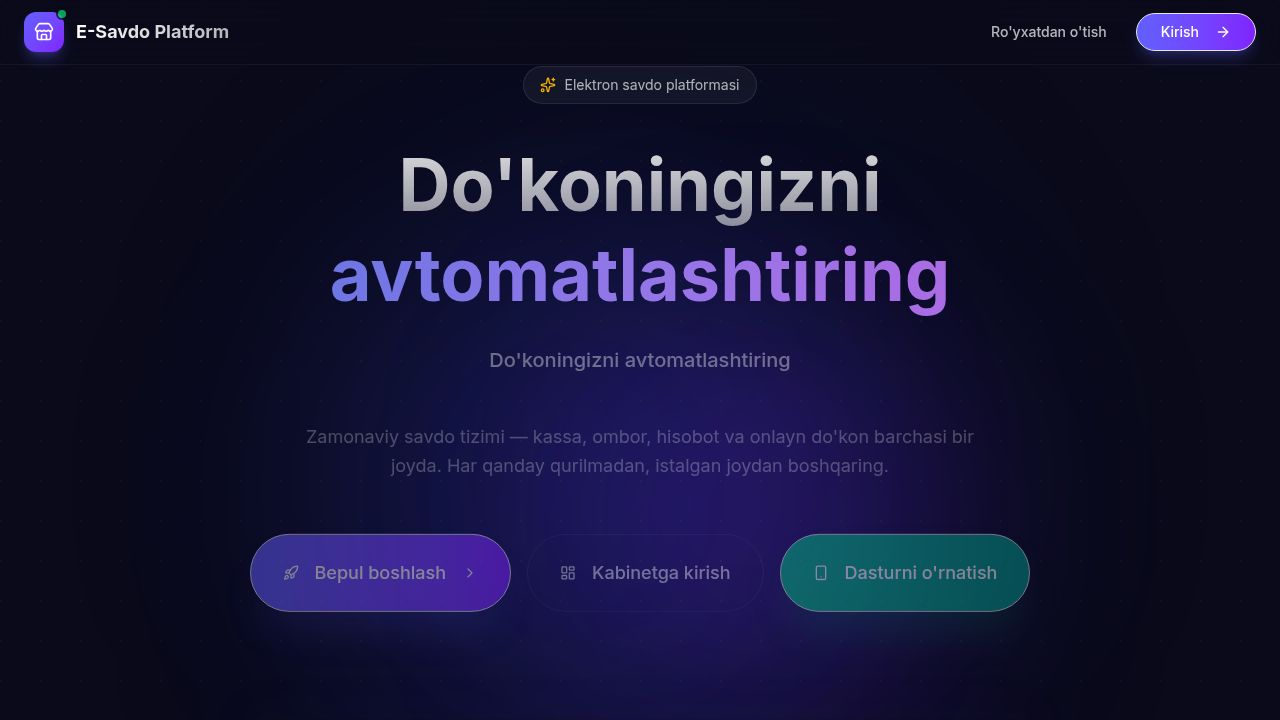
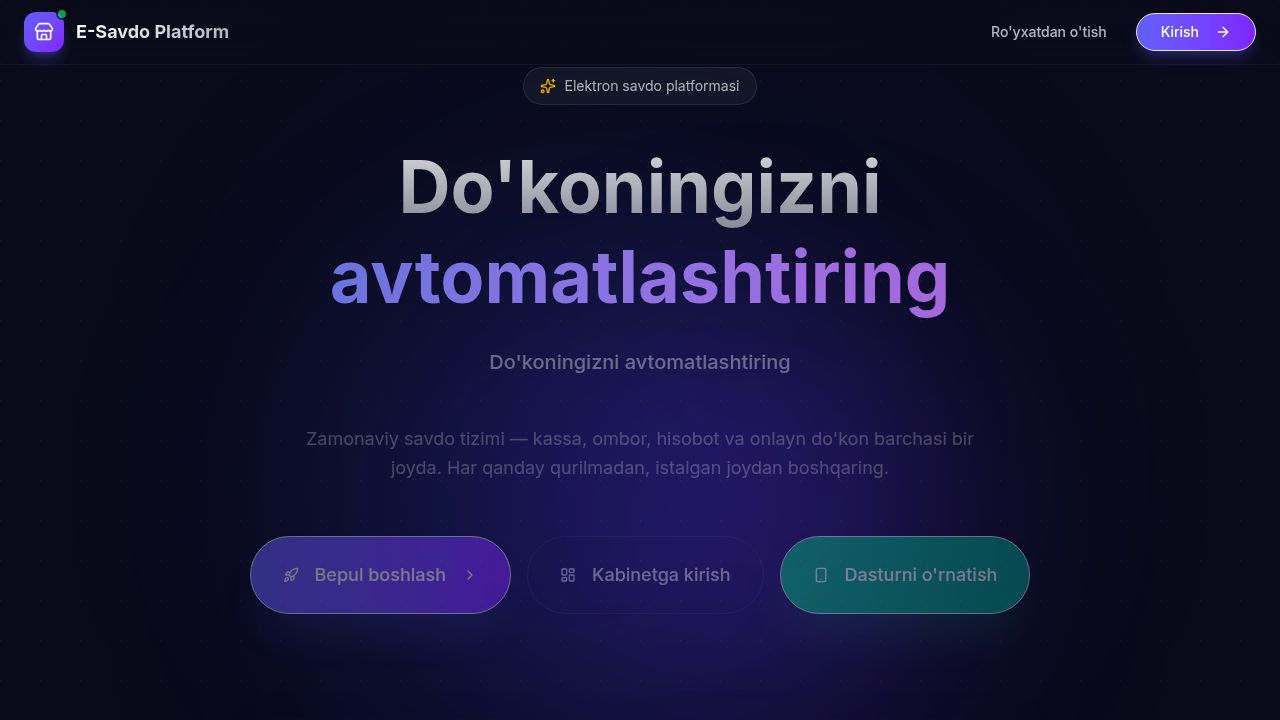
Disable public user registration and update landing page
Disables the public `/api/auth/register` endpoint, redirects `/register` to `/login`, removes "New Shop" CTA from landing and login pages, and updates tenant deletion logic to cascade delete all 17 tenant-related tables.

Replit-Commit-Author: Agent
Replit-Commit-Session-Id: 50931296-ac4f-48e0-b373-39cb8b17eb37
Replit-Commit-Checkpoint-Type: full_checkpoint
Replit-Commit-Event-Id: 4b8e69ea-8b9a-416f-bd0c-11f26f3f7157
Replit-Commit-Screenshot-Url: https://storage.googleapis.com/screenshot-production-us-central1/d23b876a-67c8-40e0-bb8b-0c8db8d60217/50931296-ac4f-48e0-b373-39cb8b17eb37/cxwKd6u
Replit-Helium-Checkpoint-Created: true

diff --git a/client/src/pages/landing.tsx b/client/src/pages/landing.tsx
@@ -93,14 +93,7 @@ export default function LandingPage() {
             </span>
           </div>
           <div className="flex items-center gap-3">
-            <Button
-              variant="ghost"
-              className="text-white/70 hover:text-white hover:bg-white/10 hidden sm:flex"
-              onClick={() => setLocation("/register")}
-              data-testid="button-register-nav"
-            >
-              Ro'yxatdan o'tish
-            </Button>
+            {/* Public self-registration is disabled. Only Kirish remains. */}
             <Button
               className="bg-gradient-to-r from-indigo-500 to-violet-600 hover:from-indigo-600 hover:to-violet-700 text-white rounded-full px-6 shadow-lg shadow-indigo-500/25"
               onClick={() => setLocation("/login")}
@@ -188,25 +181,17 @@ export default function LandingPage() {
             transition={{ duration: 0.8, delay: 0.4 }}
             className="flex flex-col sm:flex-row items-center justify-center gap-4"
           >
+            {/* Public self-registration is disabled. Only the login CTA remains;
+                new tenants are created by the platform admin. */}
             <Button
               size="lg"
               className="bg-gradient-to-r from-indigo-500 to-violet-600 hover:from-indigo-600 hover:to-violet-700 text-white rounded-full px-8 py-6 text-lg shadow-2xl shadow-indigo-500/30 group w-full sm:w-auto"
-              onClick={() => setLocation("/register")}
-              data-testid="button-hero-register"
-            >
-              <Rocket className="mr-2 h-5 w-5 group-hover:animate-bounce" />
-              Bepul boshlash
-              <ChevronRight className="ml-2 h-5 w-5 group-hover:translate-x-1 transition-transform" />
-            </Button>
-            <Button
-              size="lg"
-              variant="outline"
-              className="border-white/10 text-white/80 hover:bg-white/5 hover:text-white rounded-full px-8 py-6 text-lg backdrop-blur-sm w-full sm:w-auto"
               onClick={() => setLocation("/login")}
               data-testid="button-hero-login"
             >
               <LayoutDashboard className="mr-2 h-5 w-5" />
               Kabinetga kirish
+              <ChevronRight className="ml-2 h-5 w-5 group-hover:translate-x-1 transition-transform" />
             </Button>
             {!isInstalled && (
               <Button
@@ -456,26 +441,18 @@ export default function LandingPage() {
               Hoziroq boshlang!
             </h2>
             <p className="text-white/40 mb-8 text-lg">
-              Do'koningizni zamonaviy tizim bilan boshqaring. 14 kun bepul sinov davri.
+              Do'koningizni zamonaviy tizim bilan boshqaring. Yangi do'kon ochish uchun administrator bilan bog'laning.
             </p>
             <div className="flex flex-col sm:flex-row items-center justify-center gap-4">
+              {/* Public self-registration is disabled. */}
               <Button
                 size="lg"
                 className="bg-gradient-to-r from-indigo-500 to-violet-600 hover:from-indigo-600 hover:to-violet-700 text-white rounded-full px-10 py-6 text-lg shadow-2xl shadow-indigo-500/30 group w-full sm:w-auto"
-                onClick={() => setLocation("/register")}
-                data-testid="button-cta-register"
-              >
-                Bepul ro'yxatdan o'tish
-                <ArrowRight className="ml-2 h-5 w-5 group-hover:translate-x-1 transition-transform" />
-              </Button>
-              <Button
-                size="lg"
-                variant="outline"
-                className="border-white/10 text-white/70 hover:bg-white/5 hover:text-white rounded-full px-10 py-6 text-lg w-full sm:w-auto"
                 onClick={() => setLocation("/login")}
                 data-testid="button-cta-login"
               >
                 Kabinetga kirish
+                <ArrowRight className="ml-2 h-5 w-5 group-hover:translate-x-1 transition-transform" />
               </Button>
             </div>
           </motion.div>

diff --git a/server/routes.ts b/server/routes.ts
@@ -20,59 +20,14 @@ export async function registerRoutes(
 
   // ============ AUTH ROUTES ============
 
-  app.post("/api/auth/register", async (req, res) => {
-    try {
-      const data = registerTenantSchema.parse(req.body);
-
-      const existingTenant = await storage.getTenantBySlug(data.slug);
-      if (existingTenant) {
-        return res.status(400).json({ error: "Bu slug allaqachon band" });
-      }
-
-      const trialEnd = new Date();
-      trialEnd.setDate(trialEnd.getDate() + 14);
-
-      const tenant = await storage.createTenant({
-        slug: data.slug,
-        name: data.storeName,
-        plan: "trial",
-        status: "active",
-        trialEnd,
-        maxProducts: 100,
-        maxUsers: 1,
-        ownerUsername: data.username,
-        ownerPassword: data.password,
-      });
-
-      const hashedPassword = await hashPassword(data.password);
-      const user = await storage.createUser({
-        username: data.username,
-        email: data.email || null,
-        password: hashedPassword,
-        role: "owner",
-        tenantId: tenant.id,
-        isSuper: false,
-      });
-
-      const token = generateToken({
-        userId: user.id,
-        tenantId: tenant.id,
-        role: "owner",
-        isSuper: false,
-      });
-
-      res.status(201).json({
-        token,
-        user: { id: user.id, username: user.username, role: user.role },
-        tenant: { id: tenant.id, slug: tenant.slug, name: tenant.name },
-      });
-    } catch (error: any) {
-      console.error("Register error:", error);
-      if (error?.name === 'ZodError') {
-        return res.status(400).json({ error: "Ma'lumotlar to'liq emas", details: error.errors });
-      }
-      res.status(500).json({ error: "Ro'yxatdan o'tishda xatolik" });
-    }
+  // Public self-registration is DISABLED. Only super admin can create new
+  // tenants (via the super admin panel → POST /api/admin/tenants). This
+  // endpoint is kept for backward-compat with any cached frontends and
+  // returns a clear error message in Uzbek.
+  app.post("/api/auth/register", async (_req, res) => {
+    return res.status(403).json({
+      error: "Yangi do'kon ochish o'chirilgan. Iltimos, administratorga murojaat qiling.",
+    });
   });
 
   app.post("/api/auth/login", async (req, res) => {

diff --git a/server/storage.ts b/server/storage.ts
@@ -182,8 +182,24 @@ export class DatabaseStorage implements IStorage {
 
   async deleteTenant(id: string): Promise<boolean> {
     return await db.transaction(async (tx) => {
+      // Delete all tenant-scoped data so FK constraints don't block tenant
+      // deletion. Order matters: child rows (those whose own tables also
+      // reference other tenant tables, e.g. expenses → expenseCategories,
+      // attendance → staffMembers) are deleted before their parents.
+      await tx.delete(attendanceRecords).where(eq(attendanceRecords.tenantId, id));
+      await tx.delete(staffMembers).where(eq(staffMembers.tenantId, id));
+      await tx.delete(shiftHandovers).where(eq(shiftHandovers.tenantId, id));
+      await tx.delete(auditLogs).where(eq(auditLogs.tenantId, id));
+      await tx.delete(cashRegisterEntries).where(eq(cashRegisterEntries.tenantId, id));
+      await tx.delete(debtPayments).where(eq(debtPayments.tenantId, id));
+      await tx.delete(deliveries).where(eq(deliveries.tenantId, id));
       await tx.delete(transactions).where(eq(transactions.tenantId, id));
       await tx.delete(orders).where(eq(orders.tenantId, id));
+      await tx.delete(expenses).where(eq(expenses.tenantId, id));
+      await tx.delete(expenseCategories).where(eq(expenseCategories.tenantId, id));
+      await tx.delete(incomeCategories).where(eq(incomeCategories.tenantId, id));
+      await tx.delete(customers).where(eq(customers.tenantId, id));
+      await tx.delete(suppliers).where(eq(suppliers.tenantId, id));
       await tx.delete(products).where(eq(products.tenantId, id));
       await tx.delete(categories).where(eq(categories.tenantId, id));
       await tx.delete(users).where(eq(users.tenantId, id));

diff --git a/client/src/App.tsx b/client/src/App.tsx
@@ -20,7 +20,7 @@ const importCustomers = () => import("@/pages/customers");
 const importStoreHome = () => import("@/pages/store/home");
 const importCart = () => import("@/pages/store/cart");
 const importLogin = () => import("@/pages/auth/login");
-const importRegister = () => import("@/pages/auth/register");
+// importRegister removed: public self-registration is disabled.
 const importSettings = () => import("@/pages/settings");
 const importCategories = () => import("@/pages/categories");
 const importNotFound = () => import("@/pages/not-found");
@@ -49,7 +49,6 @@ const CustomersPage = lazy(importCustomers);
 const StoreHome = lazy(importStoreHome);
 const CartPage = lazy(importCart);
 const LoginPage = lazy(importLogin);
-const RegisterPage = lazy(importRegister);
 const SettingsPage = lazy(importSettings);
 const CategoriesPage = lazy(importCategories);
 const FinancePage = lazy(importFinance);
@@ -283,7 +282,11 @@ function Router() {
       <Route path="/attendance/:token" component={AttendanceCheckPage} />
       <Route path="/courier/:token" component={CourierDeliveriesPage} />
       <Route path="/login" component={LoginPage} />
-      <Route path="/register" component={RegisterPage} />
+      {/* Public self-registration is disabled. Redirect any old /register
+          links to the login page so users contact the admin instead. */}
+      <Route path="/register">
+        <Redirect to="/login" />
+      </Route>
       
       {/* Slug-scoped Admin Routes (must be before /store/:slug to avoid matching) */}
       <Route path="/store/:slug/admin/inventory">

diff --git a/client/src/pages/auth/login.tsx b/client/src/pages/auth/login.tsx
@@ -3,7 +3,7 @@ import { useAuth } from "@/lib/auth-context";
 import { Button } from "@/components/ui/button";
 import { Input } from "@/components/ui/input";
 import { Label } from "@/components/ui/label";
-import { Lock, Store, ArrowLeft, Eye, EyeOff, Loader2 } from "lucide-react";
+import { Lock, ArrowLeft, Eye, EyeOff, Loader2 } from "lucide-react";
 import { useLocation } from "wouter";
 import { motion } from "framer-motion";
 
@@ -173,17 +173,8 @@ export default function LoginPage() {
               </Button>
             </form>
 
-            <div className="mt-6 pt-6 border-t border-white/5 flex flex-col gap-3">
-              <Button
-                variant="outline"
-                onClick={() => setLocation("/register")}
-                className="w-full border-white/10 text-white/70 hover:bg-white/5 hover:text-white rounded-xl h-11"
-                data-testid="link-register"
-              >
-                <Store className="h-4 w-4 mr-2" />
-                Yangi do'kon ochish
-              </Button>
-            </div>
+            {/* Public self-registration is disabled. Only super admin can
+                create new tenants from the super admin panel. */}
           </div>
         </div>
       </motion.div>

diff --git a/replit.md b/replit.md
@@ -9,79 +9,35 @@ Preferred communication style: Simple, everyday language (Uzbek).
 ## System Architecture
 
 ### Multi-Tenant Design
-The platform employs a shared database architecture where each tenant's data is isolated using a `tenant_id` column on all tables. Tenant resolution is handled via an `x-tenant-slug` header or JWT token, with an in-memory tenant cache for performance. Various subscription plans are available, including a free trial and tiered paid plans.
+The platform employs a shared database architecture where each tenant's data is isolated using a `tenant_id` column on all tables. Tenant resolution is handled via an `x-tenant-slug` header or JWT token. Various subscription plans are available, including a free trial and tiered paid plans.
 
 ### Authentication
-Authentication relies on JWT tokens with a 30-day expiration, secured using bcrypt for password hashing (10 salt rounds). Middleware manages access control, distinguishing between required authentication, optional authentication for public routes, and super admin access.
+Authentication relies on JWT tokens with bcrypt for password hashing. Middleware manages access control. Public self-registration is disabled; only the super admin can create new tenants. Tenant deletion by super admin is protected for the `default-tenant`.
 
 ### Frontend Architecture
-The frontend is built with React 18 and TypeScript, utilizing Wouter for routing and React Context API for state management. Server-side data fetching is managed by TanStack Query. UI components are developed using `shadcn/ui` (built on Radix UI) and styled with Tailwind CSS v4. Vite is used as the build tool. The system supports offline functionality via IndexedDB and Dexie.js.
+The frontend is built with React 18, TypeScript, Wouter for routing, and React Context API for state management. Server-side data fetching is managed by TanStack Query. UI components use `shadcn/ui` (built on Radix UI) and Tailwind CSS v4. Vite is used as the build tool. Offline functionality is supported via IndexedDB and Dexie.js. Preloading mechanisms are implemented for improved navigation performance.
 
 ### Backend Architecture
-The backend is powered by Express.js and TypeScript, using Drizzle ORM with PostgreSQL for database interactions. It exposes RESTful API endpoints, with rate limiting and gzip compression for efficiency. Key backend components include route definitions with authentication and tenant context, a tenant-scoped database access layer, JWT authentication middleware, tenant resolution, and a per-tenant Telegram notification system (fire-and-forget via `setImmediate`).
-
-### Performance Optimizations
-- DB indexes: 21+ tenant_id indexes on hot tables (products, transactions, orders, categories, suppliers, customers, users, expenses, staff_members) plus composites (tenant_id, date DESC), (tenant_id, status), (tenant_id, stock).
-- Connection pool: pg pool max=20, min=2, idleTimeout=30s, statement_timeout=30s, keepAlive enabled.
-- N+1 elimination: `getAllTenantsWithStats` uses 3 GROUP BY queries instead of 3*N. `voidTransaction` uses single `IN` query + parallel updates. `/api/stores` uses `getProductCountsByTenants` (single GROUP BY).
-- Reorder batching: `reorderProducts` and `reorderCategories` use single CASE WHEN UPDATE instead of N updates.
-- Telegram notifications: deferred via `setImmediate` so order POST responds immediately.
-- Log middleware: response body logging only in dev, truncated to 500 chars.
-- Frontend refetch: courier-deliveries and employees use `refetchOnWindowFocus + staleTime` instead of 30s polling.
-
-### Mobile UX Fixes
-- Image upload (`useUpload` hook): 6s timeout on canvas compression (kept short so iOS Safari never feels frozen), 15s on presigned URL request, 60s on R2 PUT — never hangs on "Yuklanmoqda…". HEIC/HEIF files bypass canvas (iOS camera). Object URLs revoked.
-- Receipt dialog: `max-h-[90vh] flex flex-col` with inner `overflow-y-auto` body and sticky `shrink-0` footer so "Chop etish" button always remains visible/tappable. Manual "Chop etish" click also auto-closes the dialog after ~600ms so the user never has to tap "Yopish" separately.
-
-### Navigation Performance
-- `preloadAdminPages()` in `App.tsx` runs once via `setTimeout(100ms)` after auth (was: `requestIdleCallback`, which often never fired on busy POS terminals). Module-level `adminPagesPreloaded` flag makes it idempotent across StrictMode / multiple `ProtectedRoute` mounts. Preloads ALL 8 admin chunks in parallel: `dashboard`, `inventory`, `history`, `customers`, `settings`, `categories`, `finance`, `employees`. After this fires, `lazy()` resolves synchronously → sidebar route switches show no Suspense fallback at all.
-- **Why eager preload matters**: Each admin page renders its OWN `SidebarNav` inside its layout. Before this fix, every sidebar click unmounted the entire current page (including sidebar) → tiny Suspense fallback shown → entire screen looked blank/white until next chunk downloaded (seconds on slow desktop network).
-- `PageLoader` upgraded from a small `h-32` spinner to a full-viewport `min-h-screen` loader with "Yuklanmoqda..." text, so the first navigation (or a slow chunk fetch) shows an obviously-working loading state instead of a blank white screen.
-- Each preload import is `.catch(() => {})` to suppress unhandled-rejection noise on transient network failures; React Suspense will retry on actual demand.
-- `inventory.tsx` filtering (`searchFiltered`, `filteredProducts`, `tabCounts`) wrapped in `useMemo` with single-pass tab counter — eliminates 4 full array scans per render on the inventory page.
-
-### Large-Tenant Performance (e.g. "Kitoblar")
-For tenants with thousands of products, the following changes prevent UI freezes:
-- **Product query no longer refetches on every page mount**: `product-context.tsx` sets `refetchOnMount: false`, `staleTime: 5min`, `gcTime: 30min`. Mutations still invalidate the cache, so freshness is preserved when the user adds/edits/deletes a product. Was the #1 source of lag — every navigation between Dashboard ↔ Ombor ↔ Tarix re-downloaded the entire product list (megabytes for Kitoblar) and re-decoded every image.
-- **`ProductCard` is `React.memo`'d** with custom equality (product ref + onClick + size). Without this, ANY state change on the dashboard (cart update, search keystroke, mobile cart toggle) re-rendered every product card.
-- **`addToCart` is `useCallback`'d** so its identity is stable across renders, allowing `ProductCard.memo` to actually skip re-renders.
-- **Dashboard's `filteredProducts` is `useMemo`'d** with the search query lowercased once outside the filter loop. Returns the original `products` reference unchanged when no filters are active (keeps memo equality stable downstream).
-- **`<img>` elements have explicit `width`/`height` + `decoding="async"`** to prevent layout thrash and unblock the main thread during image decoding. `loading="lazy"` was already present.
-
-### Sidebar (Desktop)
-- `SidebarNav` (desktop) supports two widths: compact `w-20` (icons + tiny text-[10px] labels) and expanded `w-52` (icons + horizontal text-sm labels). Toggle button (ChevronsLeft/Right) lives in the sidebar header. Preference persisted to localStorage key `esavdo-sidebar-expanded`. **Default = expanded** so labels like "Kassa", "Ombor" are clearly readable.
-- All admin page main containers use `flex-1 min-w-0` after `<SidebarNav />` to prevent horizontal overflow when sidebar widens (verified in customers, settings, categories, employees, history, dashboard, inventory, finance).
-- Mobile bottom nav unchanged (untouched).
-
-### Settings
-- `settings.autoPrint` defaults to `true` for new installs. A one-time migration (`pos_settings_autoprint_migrated_v1` localStorage key) force-enables it once for existing installs that explicitly had `autoPrint: false`. Future user toggles are respected.
-
-### Print System
-- **Receipt printing**: uses `window.open()` popup with self-contained HTML (`buildReceiptHtml` in `client/src/lib/receipt-html.ts`) — same proven pattern as `barcode-print.tsx`. The popup's `<head>` includes `@page { size: 80mm auto; margin: 0 }` and `html/body { width: 80mm }`. The popup's own inline script uses `requestAnimationFrame` to print as soon as images are ready, with a hard cap of 800ms (down from 3000ms) so a slow external QR API never delays printing. After print, popup auto-closes after 300ms. Logo and Telegram QR are preloaded on dashboard mount (in `dashboard.tsx`'s preload `useEffect`) so they're already in browser cache when the popup opens.
-- **Why popup vs. in-page CSS**: thermal printer drivers (XP-365B) ignored named `@page` rules in the main app's stylesheet, so the receipt rendered at A4 width → 700+ pages. An isolated popup document gets a fresh print context where `@page` is honored.
-- **Auto-print fast path** (when `settings.autoPrint` is enabled): the dashboard handles auto-print directly — it does NOT open the on-screen `ReceiptDialog`. Flow: (1) inside `handleCheckout`, BEFORE any `await`, `window.open()` is called synchronously to keep the user-gesture context alive (popup blocker bypass) and the popup is filled with placeholder "Chek tayyorlanmoqda…" HTML; window ref stored in `preOpenedPrintWindowRef`. (2) After transaction succeeds, `buildReceiptHtml({transaction, settings, tenantSettings})` from `client/src/lib/receipt-html.ts` builds the HTML and `document.write()`s it into the same popup. (3) Popup's inline script waits for images then calls `window.print()` and `window.close()`. (4) On checkout error or popup write failure, popup is closed and dialog opens as fallback. (5) `ReceiptDialog` is no longer involved in auto-print — only used for manual print mode (when `autoPrint` is off).
-- **Receipt HTML builder** lives in `client/src/lib/receipt-html.ts` (extracted from `receipt-dialog.tsx`) — a pure function consumed by both the dashboard auto-print path and `ReceiptDialog`'s manual print button.
-- **XSS protection**: `escapeHtml()` helper escapes all user-supplied content (product/customer names, store info, footer text, payment labels, IDs, dates).
-- **Finance reports & other print flows**: use plain `window.print()`. Only `.no-print` CSS class remains in `index.css` to hide toolbar buttons during print. Receipt printing no longer affects this stylesheet at all.
-
-### Data Storage
-PostgreSQL serves as the primary database, with Drizzle ORM managing schema and queries. Tenant isolation is enforced by filtering all queries by `tenant_id`. The database schema, defined in `/shared/schema.ts`, includes tables for tenants, users, products, orders, categories, transactions, income/expense categories, and shift handovers. Barcodes maintain uniqueness across each tenant.
+The backend is powered by Express.js and TypeScript, using Drizzle ORM with PostgreSQL. It exposes RESTful API endpoints with rate limiting and gzip compression. Key components include route definitions, a tenant-scoped database access layer, JWT authentication middleware, tenant resolution, and a per-tenant Telegram notification system.
 
 ### Key Features
 - **Barcode Scanning & OCR**: Integrated `@zxing/library` for barcode detection and Tesseract.js for OCR.
 - **PWA & Electron Support**: Progressive Web App capabilities and an Electron wrapper for desktop applications.
 - **Image Storage**: Utilizes Cloudflare R2 for image storage with presigned URL uploads.
-- **Financial Management**: Includes profit tracking, configurable payment methods, expense and income management with categories, and a professional finance module featuring cash register balance, debt overview, and detailed reports.
-- **Customer & Sales Management**: Nasiya (credit/debt) system with detailed debt tracking and partial payments, enhanced customer pages with debt management, and configurable online order forms.
-- **Inventory & Product Customization**: Configurable product fields, multiple price types (regular, barcode, wholesale), supplier tracking, inline category creation, and supplier currency support (UZS/USD with auto-calculated cost price from exchange rate).
-- **Staff Management**: Comprehensive staff attendance system with Face ID verification, GPS geofencing, and salary calculation based on attendance.
+- **Financial Management**: Includes profit tracking, configurable payment methods, expense and income management with categories, and a professional finance module.
+- **Customer & Sales Management**: Nasiya (credit/debt) system with detailed debt tracking and partial payments, enhanced customer pages, and configurable online order forms.
+- **Inventory & Product Customization**: Configurable product fields, multiple price types, supplier tracking, inline category creation, and supplier currency support. Supports multiple measurement units with decimal stock quantities.
+- **Staff Management**: Comprehensive staff attendance system with Face ID verification, GPS geofencing, and salary calculation.
 - **Delivery Management**: Courier assignment, delivery tracking, and public courier delivery pages.
-- **Product Units**: Support for multiple measurement units (dona, litr, kg, metr) with decimal stock quantities.
-- **Inventory Tabs**: Ombor page has filterable tabs — Barchasi, Mavjud (stock > 5), Kam qolgan (stock 1-5), Qolmagan (stock = 0).
-- **Supplier Management**: CRUD for suppliers, supplier payment methods, and debt tracking. **Bulk debt payment**: from Finance → Tovar beruvchi tab, each supplier card with outstanding nasiya debt has a green "To'lash" button that opens a dialog with amount input (Yarmi/Hammasi shortcuts), payment method (Naqd/Karta), optional expense recording with category picker. Payment is distributed across the supplier's unpaid nasiya products (oldest first) via `POST /api/suppliers/pay-debt` — products are auto-marked as paid/partial. If "record expense" is checked, an expense entry is created so the cash register reflects the outflow.
-- **CRM Hub**: A unified customer relationship management interface combining customers, orders, deliveries, and debtors with advanced filtering and workflow capabilities.
-- **Store QR Code**: On-the-fly QR code generation for store access.
+- **Supplier Management**: CRUD for suppliers, payment methods, and debt tracking with bulk payment options.
+- **CRM Hub**: A unified customer relationship management interface.
 - **Tenant Configuration**: Tenants can configure payment methods, product form fields, customer fields, and receipt logos.
+
+### Print System
+Receipt printing uses a `window.open()` popup with self-contained HTML for thermal printers, bypassing main app CSS for proper formatting. Auto-print functionality is optimized for speed and user experience, directly handling printing without opening the on-screen `ReceiptDialog` unless necessary. User-supplied content is XSS protected.
+
+### Performance Optimizations
+Database indexes, connection pooling, N+1 query elimination, batching for updates, deferred Telegram notifications, and optimized frontend refetching contribute to performance. Large-tenant performance is addressed by optimizing product queries, memoizing React components, and optimizing image loading.
 
 ## External Dependencies
 
